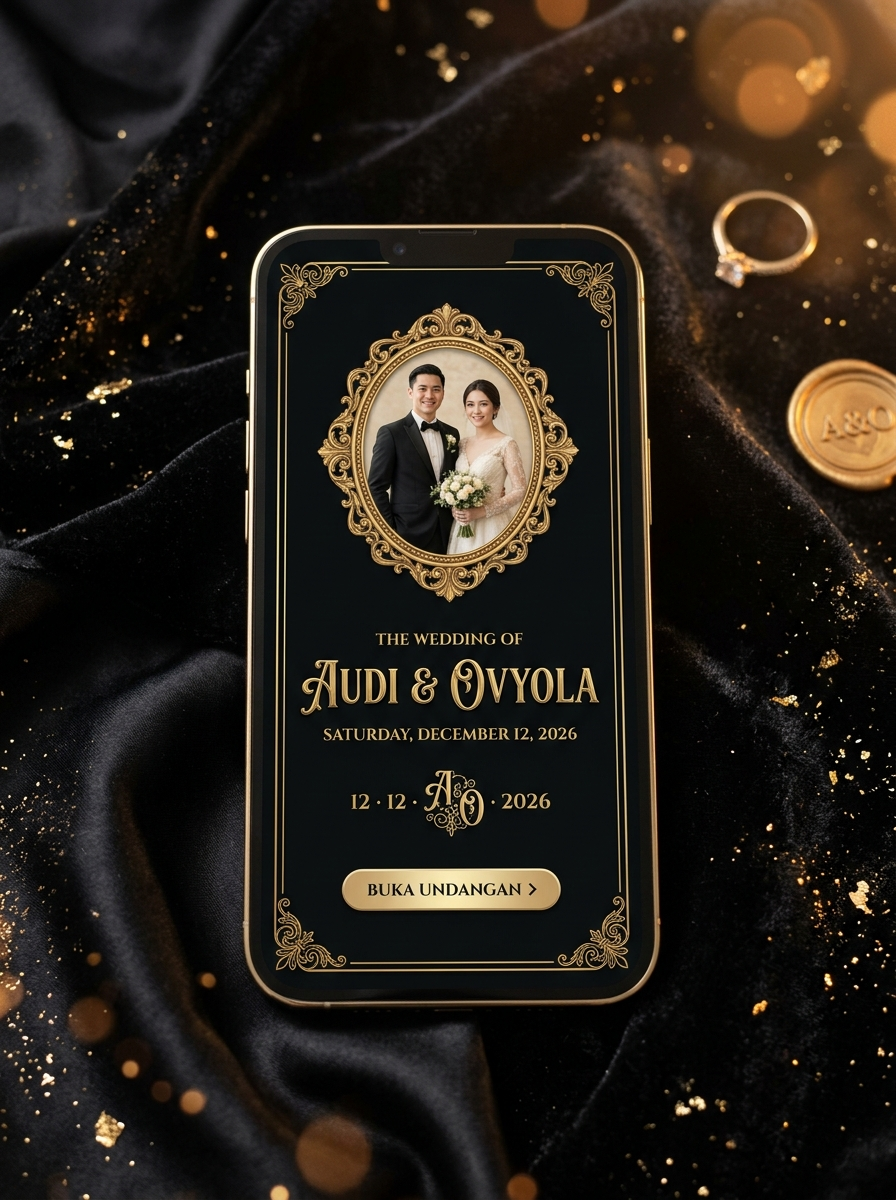
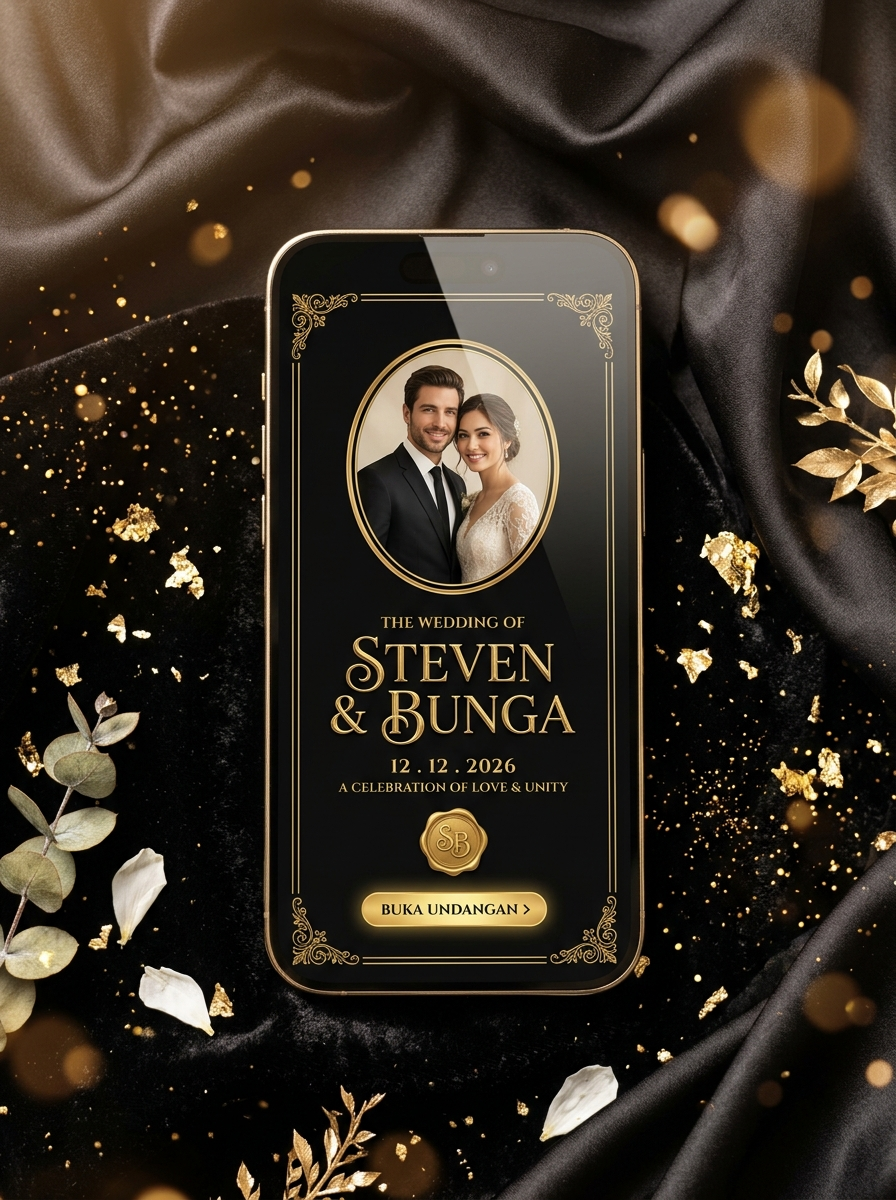
feat(themes): update Steven & Bunga default for Noir Gold and add luxury mockup preview for Kuala Lumpur Heritage

diff --git a/src/pages/invitation/themes/NoirGoldTheme.tsx b/src/pages/invitation/themes/NoirGoldTheme.tsx
@@ -297,18 +297,18 @@ export const NoirGoldTheme: React.FC<NoirGoldThemeProps> = ({
     }, 600);
   };
 
-  // Safe couple display data
-  const groomName = couple?.groom_nickname || couple?.groom_name || 'Dimas';
-  const groomFullName = couple?.groom_full_name || couple?.groom_name || 'Dimas Wicaksono, S.T.';
-  const groomParents = couple?.groom_parents || 'Putra pertama dari Bpk. Bambang & Ibu Sri Wahyuni';
-  const groomPhoto = couple?.groom_photo || couple?.groom_photo_url || '/photos/photo-3.jpg';
+  // Safe couple display data (default to canonical demo couple Steven & Bunga)
+  const groomName = couple?.groom_nickname || couple?.groom_name || 'Steven';
+  const groomFullName = couple?.groom_full_name || couple?.groom_name || 'Steven Pratama, S.Kom.';
+  const groomParents = couple?.groom_parents || 'Putra pertama dari Bpk. Bambang Pratama & Ibu Siti Rahayu';
+  const groomPhoto = couple?.groom_photo || couple?.groom_photo_url || '/photos/photo-7.jpg';
 
-  const brideName = couple?.bride_nickname || couple?.bride_name || 'Nadia';
-  const brideFullName = couple?.bride_full_name || couple?.bride_name || 'Nadia Larasati, S.I.Kom.';
-  const brideParents = couple?.bride_parents || 'Putri kedua dari Bpk. Suryanto & Ibu Ratna Dewi';
-  const bridePhoto = couple?.bride_photo || couple?.bride_photo_url || '/photos/photo-4.jpg';
+  const brideName = couple?.bride_nickname || couple?.bride_name || 'Bunga';
+  const brideFullName = couple?.bride_full_name || couple?.bride_name || 'Bunga Citra Lestari, S.E.';
+  const brideParents = couple?.bride_parents || 'Putri kedua dari Bpk. Hendra Gunawan & Ibu Ratna Dewi';
+  const bridePhoto = couple?.bride_photo || couple?.bride_photo_url || '/photos/photo-8.jpg';
 
-  const couplePhoto = invitation?.settings?.cover_photo || couple?.cover_photo || '/photos/audi-ovyola/cover-audi-ovyola.jpg';
+  const couplePhoto = invitation?.settings?.cover_photo || couple?.cover_photo || '/themes/nirwana-sarangan/couple-cover.jpg';
 
   // Events data
   const mainEvents = (events && events.length > 0) ? events : [

diff --git a/src/pages/public/Home.tsx b/src/pages/public/Home.tsx
@@ -48,8 +48,8 @@ export const Home: React.FC = () => {
       id: 'noir-gold',
       name: 'Noir Gold Elegance',
       slug: 'noir-gold',
-      badge: 'Paket Starter',
-      couple: 'Dimas & Nadia',
+      badge: 'Starter',
+      couple: 'Steven & Bunga',
       date: 'Sabtu, 26 Desember 2026',
       preview: '/themes/noir-gold/theme-preview.jpg',
       videoUrl: '',
